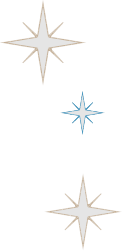
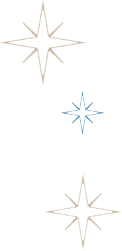
Finished login select page

Changed region(s): [[0.0738, 0.0279, 0.6393, 0.3068], [0.4426, 0.7251, 0.9098, 0.9761], [0.5656, 0.3625, 0.7869, 0.5299]]

diff --git a/src/pages/Login/LoginSelect/index.js b/src/pages/Login/LoginSelect/index.js
@@ -1,0 +1,67 @@
+import React from "react";
+import config from "../../../config";
+import { makeStyles } from "@material-ui/core/styles";
+import Grid from '@material-ui/core/Grid';
+
+const useStyles = makeStyles(() => ({
+    root: {
+        flexGrow: 1,
+        paddingLeft: "10%",
+        paddingRight: "10%",
+    },
+    image: {
+        display: "block",
+        margin: "auto"
+    },
+    titleText: {
+        textAlign: "center",
+        color: "#FEEF9F",
+        fontSize: "32pt",
+        fontFamily: "'Inknut Antiqua', serif",
+    }
+}));
+
+export default function LoginSelect(props) {
+    const { assetsURL } = config;
+    const classes = useStyles();
+
+    return(
+        <>
+            <Grid container className={classes.root} spacing={6}>
+                <Grid item xs={12}>
+                    <Grid container justify="center" spacing={1}>
+                    {[1, 2, 3].map((value) => (
+                        <Grid key={"login-curt" + value} item sm={6} md={4}>
+                            <img src={assetsURL.image + `/login-curt${value}.png`} alt="tirai" className={classes["image"]}/>
+                        </Grid>
+                    ))}
+                    </Grid>
+                </Grid>
+
+                <Grid item xs={12}>
+                    <Grid container justify="center" spacing={1}>
+                        <Grid key={"login_lembaga"} item sm={6} md={4}>
+                            <a href="/login-lembaga" >
+                                <img src={assetsURL.image + `/login-button.png`} alt="login" className={classes.image}/>
+                            </a>
+                        </Grid>
+
+                        <Grid key={"login_ina"} item sm={6} md={4}>
+                            <a href="/login-INA" >
+                                <img src={assetsURL.image + `/login-button.png`} alt="login" className={classes.image}/>
+                            </a>
+                        </Grid>
+
+                        <Grid key={"login_non_ina"} item sm={6} md={4}>
+                            <a href="/login-non-INA" >
+                                <img src={assetsURL.image + `/login-button.png`} alt="login" className={classes.image}/>
+                            </a>
+                        </Grid>
+                    </Grid>
+                </Grid>
+            </Grid>
+
+            <p className={classes.titleText}>Who are you?</p>
+        </>
+    );
+}

diff --git a/src/layouts/DarkBlue/Cloudy/index.js b/src/layouts/DarkBlue/Cloudy/index.js
@@ -5,28 +5,37 @@ import { makeStyles } from "@material-ui/core/styles";
 const useStyles = makeStyles(() => ({
     darkBlue: {
         backgroundColor: "#02141D",
-        width: "100vw",
-        height: "100vh",
+        position: "fixed",
+        top: 0,
+        left: 0,
+
+        /* Preserve aspect ratio */
+        minWidth: "100%",
+        minHeight: "100%",
     },
     cloudLeft: {
         position: "fixed",
         bottom: 0,
         left: 0,
+        pointerEvents: "none",
     },
     cloudRight: {
         position: "fixed",
         bottom: 0,
         right: 0,
+        pointerEvents: "none",
     },
     starLeft: {
         position: "fixed",
-        top: "10px",
-        left: "10px",
+        top: "120px",
+        left: "30px",
+        pointerEvents: "none",
     },
     starRight: {
         position: "fixed",
-        top: "10px",
-        right: "10px",
+        top: "120px",
+        right: "30px",
+        pointerEvents: "none",
     }
 }));
 

diff --git a/src/App.js b/src/App.js
@@ -1,9 +1,10 @@
 import './App.css';
 import Cloudy from "./layouts/DarkBlue/Cloudy"
+import LoginSelect from "./pages/Login/LoginSelect"
 
 function App() {
   return (
-    <Cloudy variant="2"/>
+    <Cloudy variant="2" children={LoginSelect()}/>
   );
 }
 
